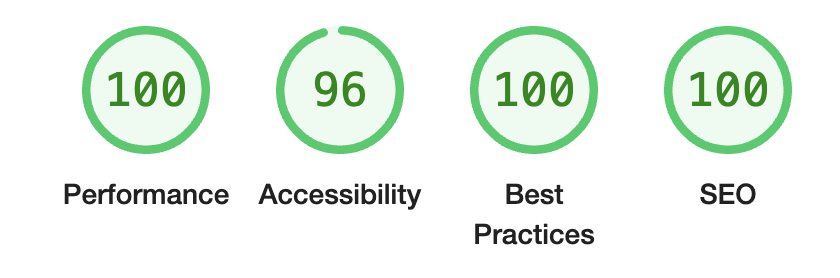
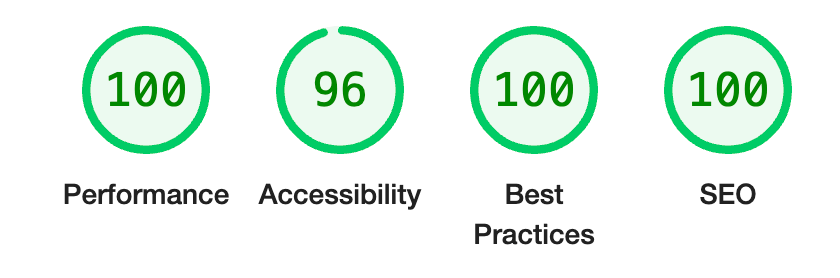
add lighthouse score

diff --git a/README.md b/README.md
@@ -7,3 +7,7 @@
 ## 功能架构
 
 ![](forkify-flowchart-part-3.png)
+
+## 性能
+
+![](lighthouse-score.png)
